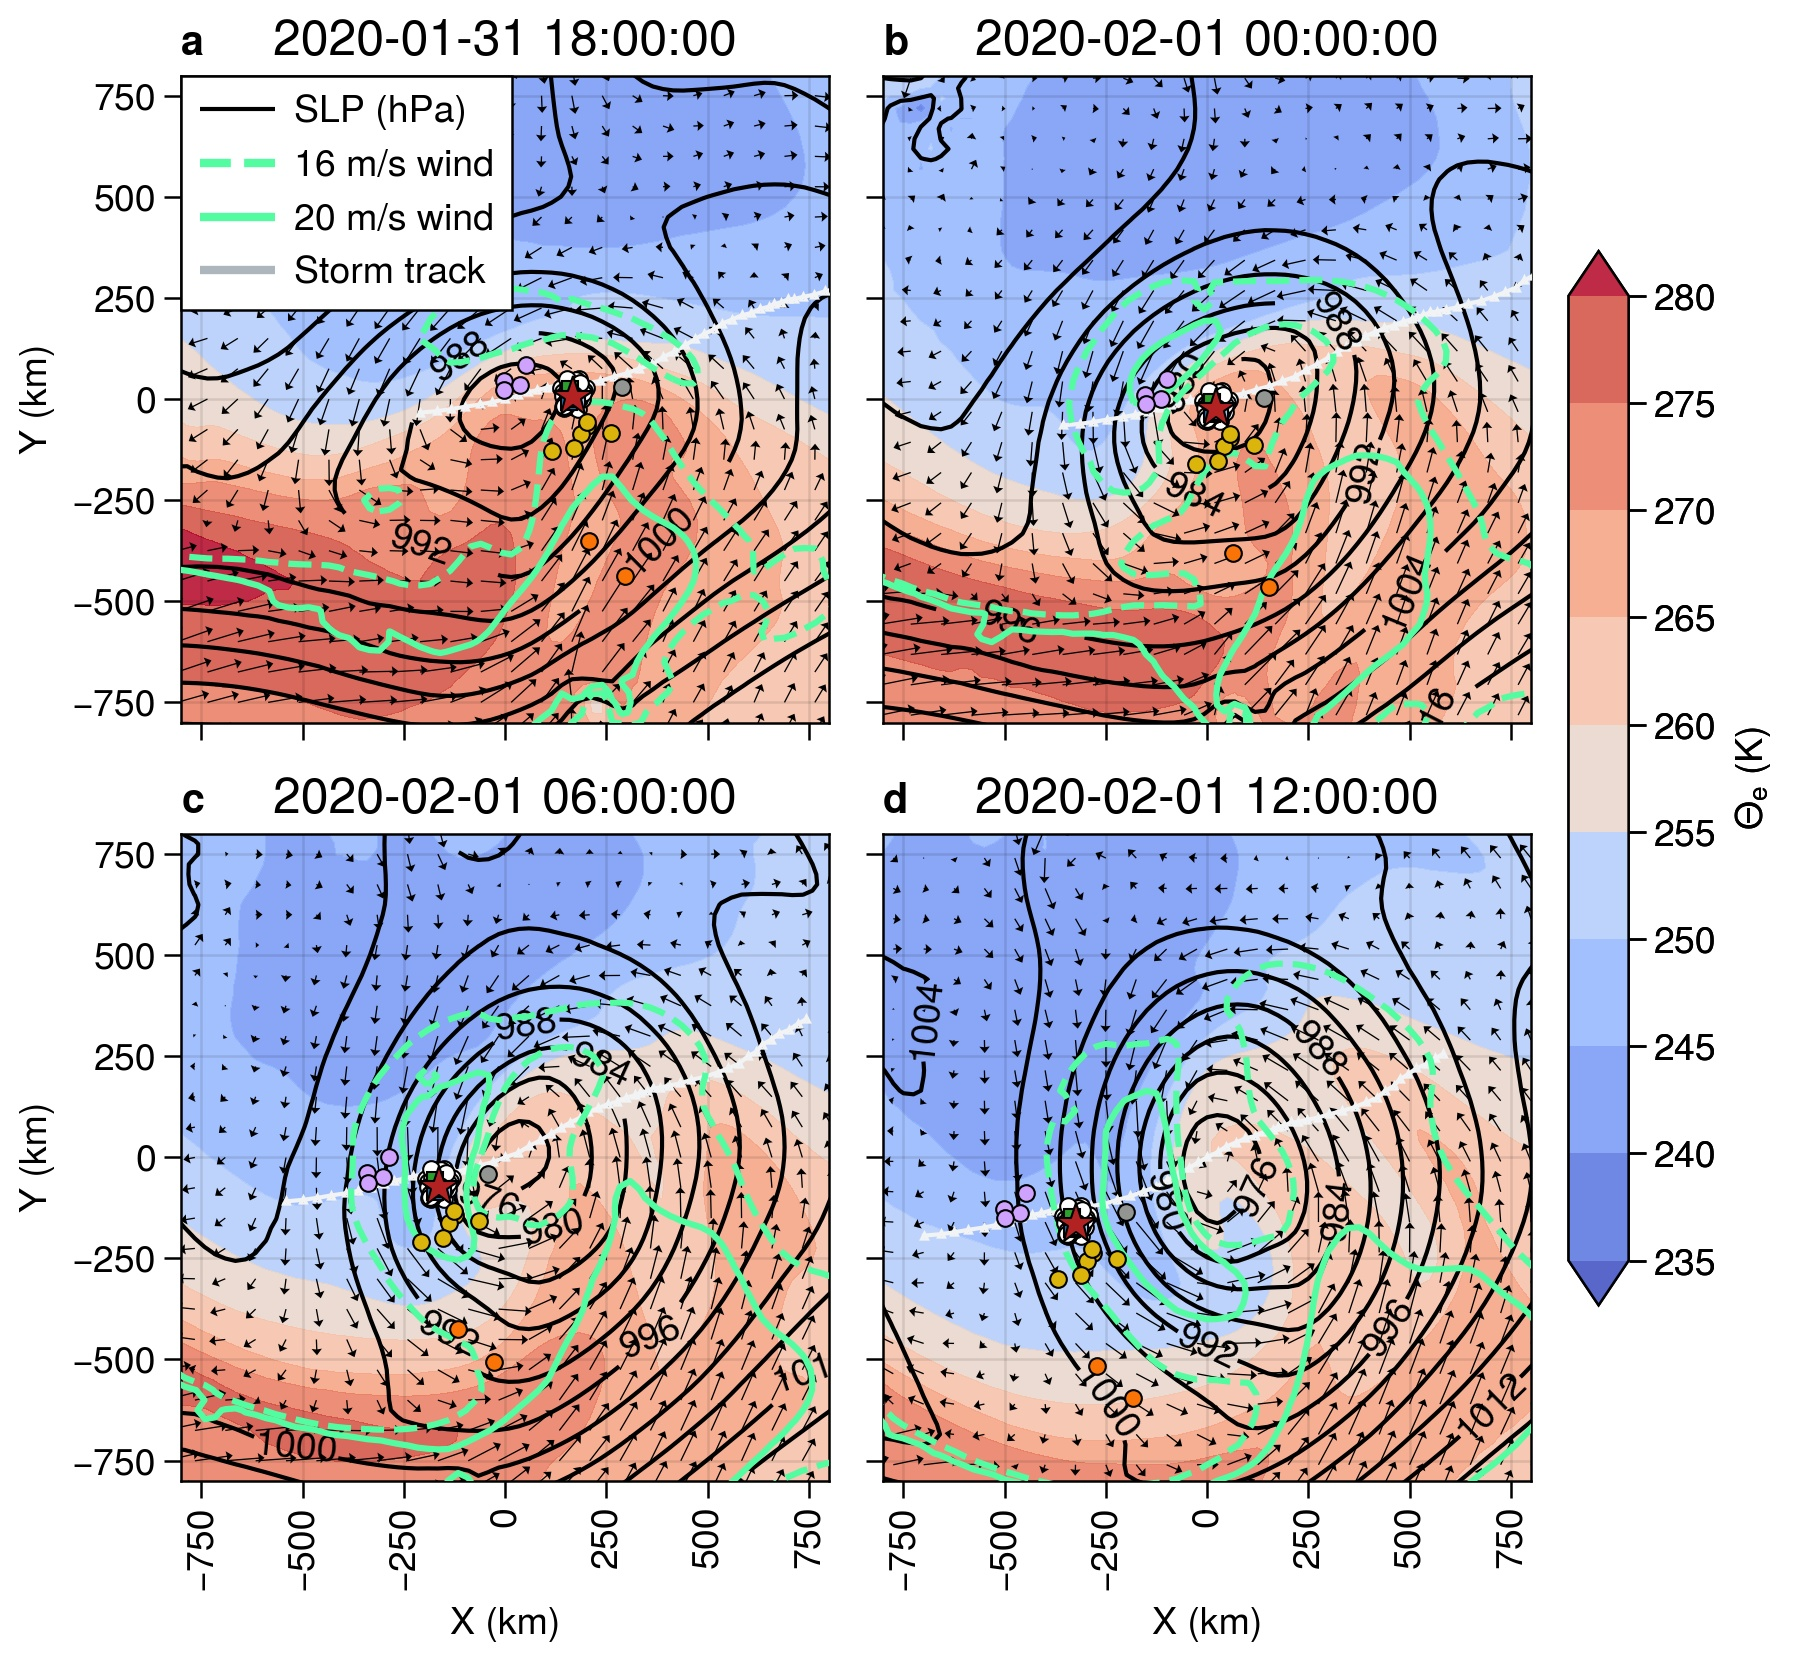
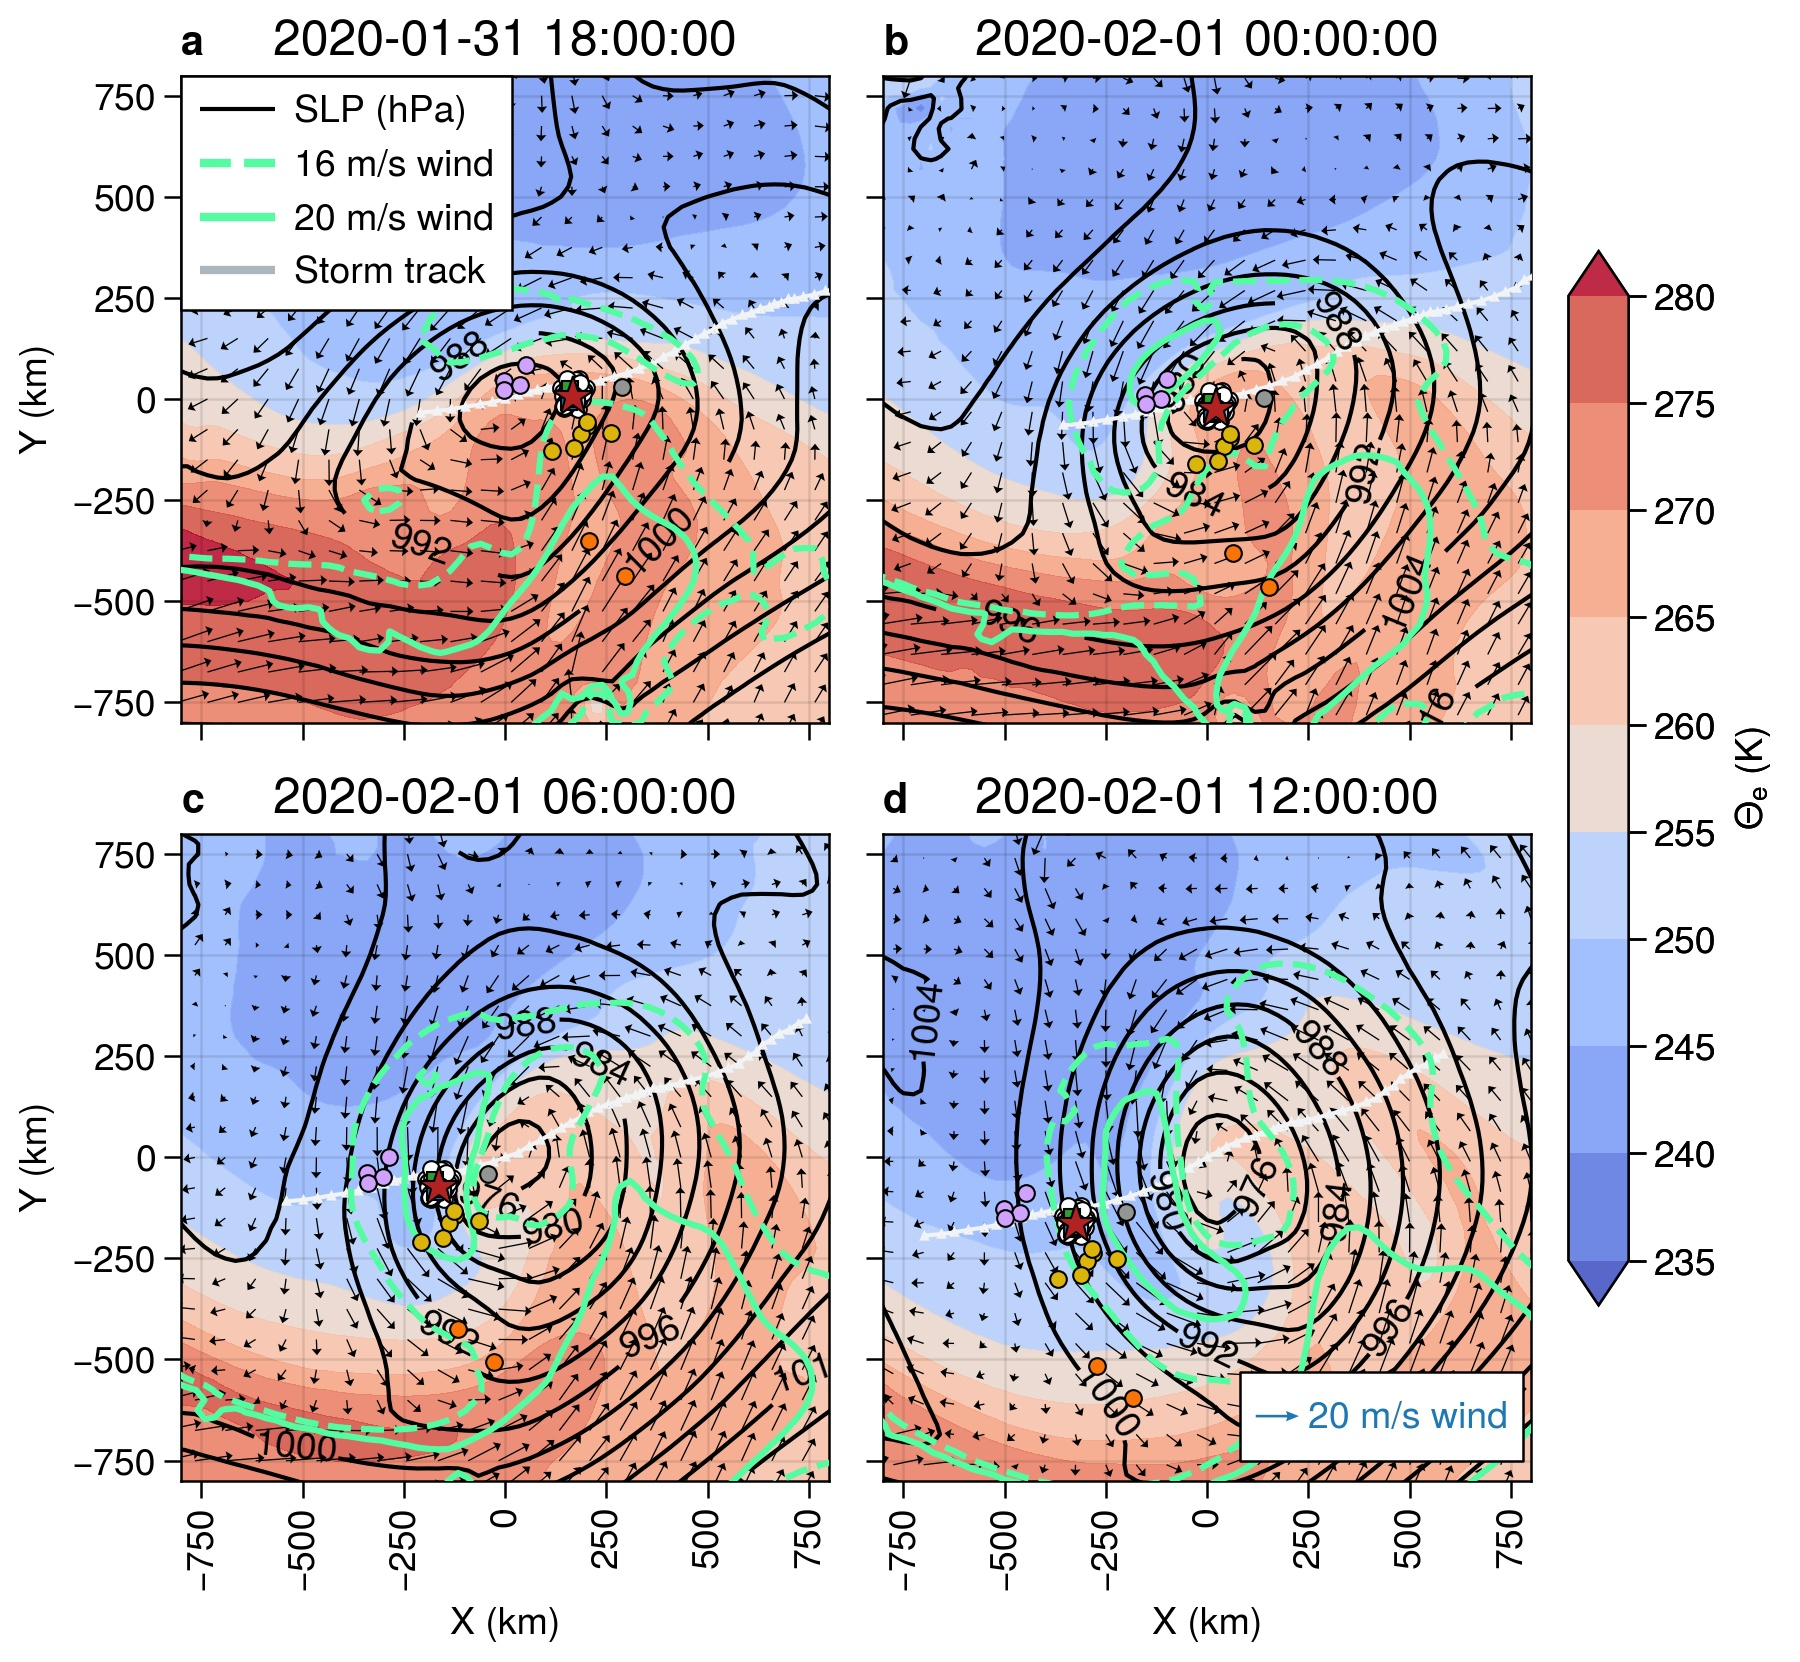
Added wind scale bar to Fig 3

Changed region(s): [[0.6844, 0.7978, 0.8711, 0.8899]]

diff --git a/scripts/plot_storm_system.py b/scripts/plot_storm_system.py
@@ -11,6 +11,8 @@ Requirements:
 - interpolated buoy data
 - era5 data
 """
+from matplotlib.patches import Rectangle
+from matplotlib.collections import PatchCollection
 import metpy.calc as mcalc
 from metpy.units import units
 import numpy as np
@@ -180,6 +182,19 @@ for date, ax in zip(plot_dates, axs):
               xlim=(-plot_scale, plot_scale), ylim=(-plot_scale, plot_scale),
               xticks=np.arange(-0.75e3, 0.8e3, 250), xtickminor=False, xrotation=90,
               yticks=np.arange(-0.75e3, 0.8e3, 250), ytickminor=False)
+
+# Vector legend
+# Need to manually set the location
+ax.quiver(120,
+          -640,
+          20,
+          0,
+          scale=300, headwidth=4, c = 'tab:blue', zorder=6, width=1/250)
+ax.text(250, -670, '20 m/s wind', c='tab:blue', zorder=6)
+rec = Rectangle((80, -750), 700, 220) 
+pc = PatchCollection([rec], facecolor='w', alpha=1,
+                         edgecolor='k', zorder=5)
+ax.add_collection(pc)
 
 # Generate legend manually for finer control
 h, l = [], []
